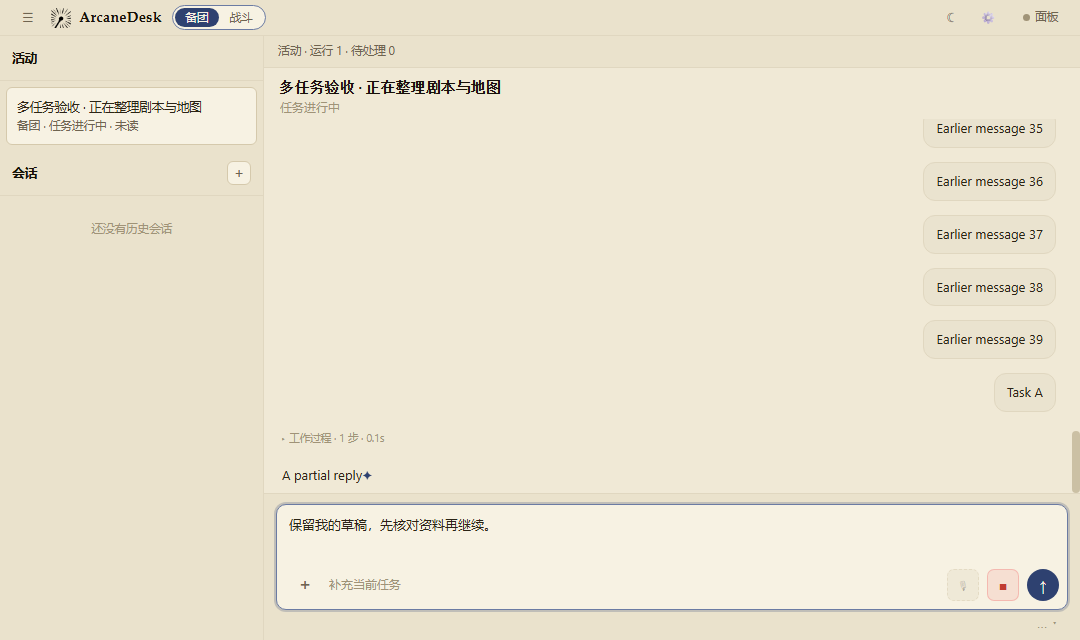
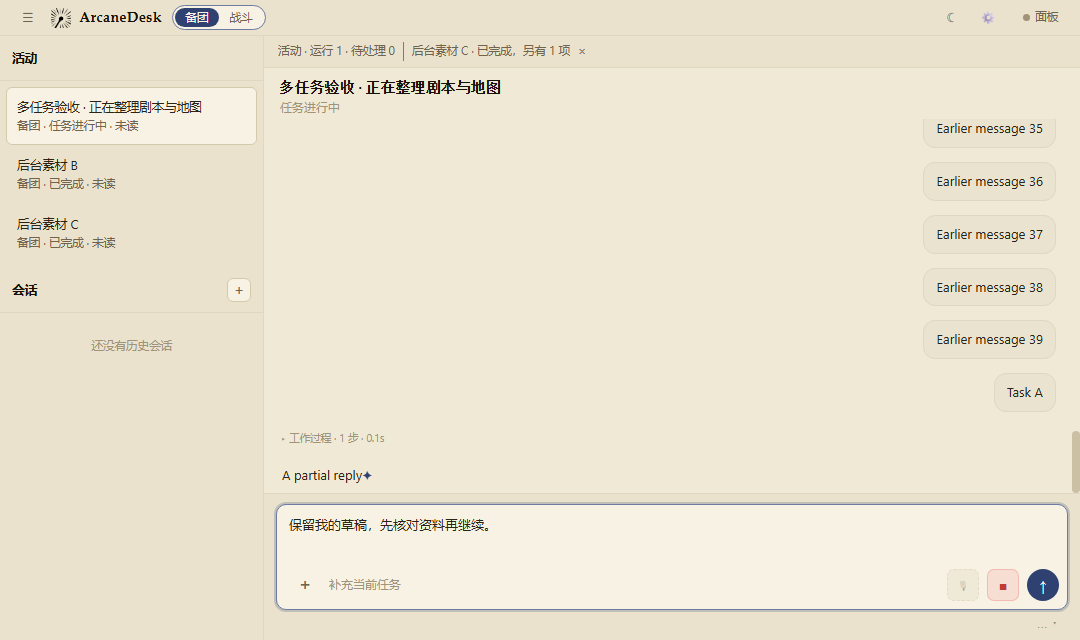
test(desktop): verify progress notices preserve typing (M8o5)

diff --git a/apps/desktop/docs/acceptance-audit.md b/apps/desktop/docs/acceptance-audit.md
@@ -1,6 +1,6 @@
 # 多会话规格验收审计
 
-日期：2026-09-07。当前复核基线：`78b6c78`（M8n4）；最初审计基线为 `26776eb`。依据：[spec](spec.md)、[architecture](architecture.md)。
+日期：2026-09-07。当前复核基线：`f3c177b`（M8o4）；最初审计基线为 `26776eb`。依据：[spec](spec.md)、[architecture](architecture.md)。
 
 结论：整体未完成。G1–G6、G9、G10 的指定修复及联合场景已完成；G7 的 Windows 关闭/取消/最小化/停止退出和多尺寸渲染布局已有证据，系统托盘及通知真实点击尚未通过。M8n3 性能复核通过。G8 最终复核仍在进行。
 
@@ -108,7 +108,7 @@ E22：[慢停止 runner](../test/smoke-production-slow-stop.mjs)、E21 场景的
 
 | 要求 | 当前证据及判断 |
 | --- | --- |
-| 6.1-1 新建/打开/跨模式/收起/最小化不停止 | E1 覆盖前三类与隐藏；收起/最小化实际 OS 行为待集成 |
+| 6.1-1 新建/打开/跨模式/收起/最小化不停止 | E1 覆盖前三类与隐藏；E19 覆盖侧栏收起布局，M8n1 实际 Windows 最小化/恢复通过 |
 | 6.1-2 不等待旧任务、不自动发送/重复提交 | E1 |
 | 6.1-3 最后一次选择生效 | E7 模块覆盖；E16 已验证生产页面受控乱序导航 |
 | 6.1-4 A 的迟到事件/回执不污染 B | E3/E6/E7；停止请求反馈见 M8i/E3 |
@@ -122,7 +122,7 @@ E22：[慢停止 runner](../test/smoke-production-slow-stop.mjs)、E21 场景的
 | §7 表：完成、待处理、失败的前台/其他会话反馈 | E4/E10；恢复失败内容由 M8j/E3 覆盖 |
 | §7 表：应用不在前台且启用时通知一次 | E10 模拟 native；**系统通知真实送达和点击待集成** |
 | §7-1 去重跨刷新/历史/重复事件 | E4/E10 |
-| §7-2 合并提示、不遮挡输入 | ActivityView 多项计数及独立活动条；多尺寸和输入中展示待视觉验收 |
+| §7-2 合并提示、不遮挡输入 | ActivityView 多项计数及独立活动条；E19 增补两项完成提示合并，四种尺寸均验证输入焦点、草稿及控件边界；提示位于输入区上方 |
 | §7-3 通知只含标题状态 | E10 字段覆盖 |
 | §7-4 待处理持续至解决、无额外审批 | E4/E8，既有审批仅在显式配置启用时使用 |
 
@@ -139,7 +139,7 @@ E22：[慢停止 runner](../test/smoke-production-slow-stop.mjs)、E21 场景的
 | 8.2-1、2 确认规则及停止后删除 | E7/E11，页面停止删除操作位于 chat.js；E20 生产删除交互通过（确认选择受控） |
 | 8.2-3 删除失败/未停保留记录 | E7/E11；M8k/E1 已验证删除后替代启动失败能恢复原 B 实例；运行中删除另见 G10 |
 | 8.3-1 最小化/隐藏进程活着继续 | E1 隐藏；M8n1 实际 Windows 最小化/恢复通过 |
-| 8.3-2 关闭窗口的三项决策及重新打开 | E1 原生窗口/托盘对象、程序决策/回调；物理点击与其他 OS 待集成 |
+| 8.3-2 关闭窗口的三项决策及重新打开 | E1 原生窗口/托盘对象、程序决策/回调；Windows 关闭/取消/停止退出由 M8n1 通过；后台重新打开的托盘实际点击仍待 G7。当前仅声明 Windows 实测 |
 | 8.3-3 退出确认、等待与持续反馈 | E1/E4/E11；M8n1 实际 Windows 关闭/取消/停止退出通过 |
 | 8.3-4 异常退出后中断、历史与入口 | E2 强制结束重启覆盖；非磁盘故障保证 |
 | 8.3-5 不自动重放、核对后继续 | E2 证明只有显式输入触发新模型请求；不等同外部动作事务去重 |
@@ -147,7 +147,7 @@ E22：[慢停止 runner](../test/smoke-production-slow-stop.mjs)、E21 场景的
 | §9-1 每会话独立并发与上下文 | E1/E7/E8/E14；实际 SDK 的不同模型/目录组合通过 |
 | §9-2 B 模型/目录不影响 A、换目录新建 | [host tests](../test/agent-host-tools.test.mjs)、E7/E14；生产目录 IPC 创建新会话，A/B 目录独立 |
 | §9-3 默认仅新会话、任务内改模型延后且说明 | E14 复现并修复已有空会话被覆盖，验证新会话默认及下一任务应用延后模型；页面 pendingModel 可见 |
-| §9-4、5 共享资源冲突与保守串行 | E9；实际 Foundry 世界操作待集成，不防外部程序写入 |
+| §9-4、5 共享资源冲突与保守串行 | E9；E18 实际 Foundry 世界竞争/取消通过，不防外部程序写入 |
 | §9-6 资源等待可见、公平、取消撤队 | E4/E9 |
 | §9-7 额度满排队、不随视图变化 | E9/E12，默认 2、环境配置最多 16 |
 | §9-8 只回收安全空闲实例、重开恢复 | E5/E7；未保存/活跃数据不为满足缓存上限而丢弃 |
@@ -158,14 +158,14 @@ E22：[慢停止 runner](../test/smoke-production-slow-stop.mjs)、E21 场景的
 | --- | --- |
 | 1 执行归会话任务 | E1/E7/E8 |
 | 2 命令事件归属、迟到不污染 | E6/E7/E8；全局活动/共享世界事件采用独立作用域 |
-| 3 执行状态唯一、即时与确认区别 | E8；前端停止请求 G2 |
+| 3 执行状态唯一、即时与确认区别 | E8；前端停止请求由 M8i/E3 覆盖 |
 | 4 后台可恢复状态与摘要 | E1/E6/E10 |
 | 5 恢复包含当前现场 | E1/E3/E6；运行进程仍在的快照，不承诺未持久流片抗断电 |
 | 6 顺序去重、不丢重/倒退 | E6；E16 生产页面验证迟到导航回复及任务完成后的旧 running 快照 |
 | 7 导航不停止/释放/重提交 | E1/E7 |
-| 8 工具不虚假成功、停止不虚假完成 | E3/E8/E9；实际工具联合场景待补 |
+| 8 工具不虚假成功、停止不虚假完成 | E3/E8/E9；E13/E21/E22 已验证实际工具状态、停止及残留操作等待 |
 | 9 已读与通知去重可恢复 | E4/E10 |
-| 10 会话/任务/事件诊断、不额外敏感正文 | E12 及 [runtime scope tests](../test/direct-foundry-runtime.test.mjs)；界面同步失联可诊断性 G4 |
+| 10 会话/任务/事件诊断、不额外敏感正文 | E12 及 [runtime scope tests](../test/direct-foundry-runtime.test.mjs)；界面同步诊断由 M8l/E3 覆盖 |
 
 ## §11 验收场景与性能门槛
 

diff --git a/apps/desktop/docs/milestones.md b/apps/desktop/docs/milestones.md
@@ -11,7 +11,7 @@
 | M5 | 跨模式活动、未读与通知 | 后台完成/失败/待处理可见；不抢焦点；恢复不重复通知 | M5a–M5d 实现及自动化验收完成；系统展示待 M8 平台审计 |
 | M6 | 并发额度、共享资源协调、取消队列 | 独立任务并发；受控冲突串行；等待可见且可取消 | M6a/M6b、M6c1–M6c4 已验收；完整资源集成审计待 M8 |
 | M7 | 持久任务记录、删除、退出与异常恢复 | 不产生孤儿任务；重启标中断；不重放外部动作 | M7a–M7e 自动化实现阶段已验收；系统入口实测及完整恢复体验待 M8 审计 |
-| M8 | 完整集成验收、性能测量、规格逐项审计 | spec 全部场景有证据，缺失项保持未完成 | 已推进至 M8m3；G1–G5 已关闭，G6 部分完成，G7 及最终性能/规格复核待完成 |
+| M8 | 完整集成验收、性能测量、规格逐项审计 | spec 全部场景有证据，缺失项保持未完成 | 已推进至 M8o4；G1–G6、G9/G10 已关闭，性能复核通过；G7 系统托盘/通知与 G8 最终复核待完成 |
 
 ## 验收记录
 
@@ -430,3 +430,10 @@
 - 新增 slow-stop runner：真实 WebContentsView 页面 Promise 超时后继续持有生产资源，停止 SDK 并刷新页面，确认 stopping 及 Foundry 等待说明持续；实际页面释放后才 stopped。页面操作由夹具登记到任务资源，证据范围见 E22。
 - 初次使用额外 BrowserWindow 覆盖了共享夹具的主窗口引用，改为 WebContentsView 后最终验收通过；不计初次失败为产品行为证据。
 - 生产慢停止、普通会话回归、类型/源码边界检查及全量 408 项测试通过，Markdown 链接及 diff 检查通过。G10 已关闭；G7 系统托盘/通知真实交互与 G8 最终复核未完成。
+
+### M8o5 — 输入中多项提示布局复核 — 2026-09-07
+
+- 布局场景在输入框保持焦点时接收 B/C 两项完成提示，验证合并数量、草稿及焦点不变、提示位于输入区上方，以及四种尺寸的控件边界。
+- 重新生成并目视核对截图；最窄聊天区采用省略文字，入口和关闭按钮仍可见。捕获前等待渲染帧，避免首张截图落后于刚更新的提示状态。
+- 更新 E19 证据和旧审计条目，区分已经通过的实际工具、Foundry、最小化与尚未通过的系统托盘/通知。普通会话回归、Markdown 链接及 diff 检查通过。
+- 用户停止电脑操作后未再启动交互测试；此前 native-system 运行已超时退出，未计成功。已请求用户方便时配合真实系统点击，G7 和最终 G8 仍未完成。

diff --git a/apps/desktop/docs/layout-evidence/README.md b/apps/desktop/docs/layout-evidence/README.md
@@ -1,8 +1,8 @@
 # 多尺寸渲染布局验收
 
-2026-09-07，M8n4。执行 `node apps/desktop/test/review-layout.mjs`，通过。
+2026-09-07，M8n4 初验，M8o5 增补输入中合并提示。执行 `node apps/desktop/test/review-layout.mjs`，通过。
 
-使用实际 Electron renderer、preload 和生产 ActivityCenter，模型与会话 IPC 使用受控数据。任务 A 持续运行，输入框保留草稿；活动入口显示运行 1。逐项检查活动入口、任务状态、输入框、停止及发送按钮的非零尺寸、可见性和视口边界，并人工查看全部截图。
+使用实际 Electron renderer、preload 和生产 ActivityCenter，模型与会话 IPC 使用受控数据。任务 A 持续运行，输入框保留草稿；活动入口显示运行 1。在输入保持焦点时收到 B/C 两项完成提示，验证合并提示保留草稿和焦点，且位于输入区上方。逐项检查活动入口、合并提示、任务状态、输入框、停止及发送按钮的非零尺寸、可见性和视口边界，并人工查看全部截图。
 
 | 场景 | 内容尺寸 | 聊天宽度 | 截图 |
 | --- | --- | --- | --- |
